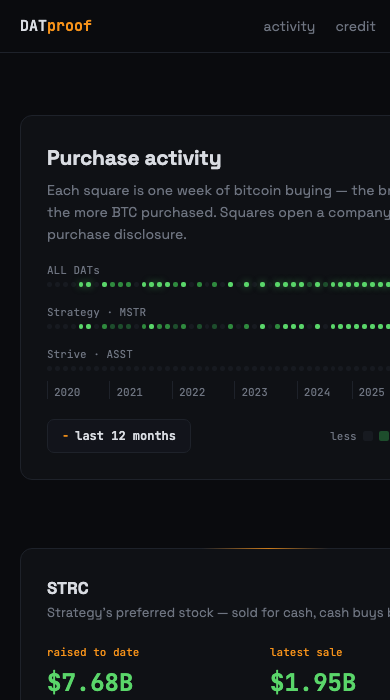
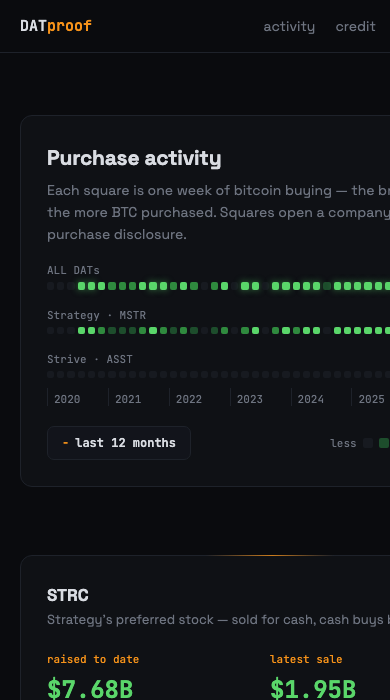
grid: fit both views at phone width

diff --git a/site/index.html b/site/index.html
@@ -140,7 +140,7 @@ const mstr=D.series.find(s=>s.t==='MSTR'),asst=D.series.find(s=>s.t==='ASST');
 let expanded=false;
 function drawGrid(){
  const width=document.getElementById('g-all').clientWidth||900;
- const maxCols=Math.max(40,Math.min(160,Math.floor(width/6.5)));
+ const maxCols=Math.max(8,Math.floor(width/10)); // ~10px per cell (incl. gap) keeps cells readable at any width
  const from=expanded?START:new Date(END.getTime()-52*7*864e5);
  const span=END.getTime()-from.getTime();
  const cols=Math.min(maxCols,52); // expanded reuses the 12-month cell count — bucket the wider span into it

diff --git a/site/template.html b/site/template.html
@@ -140,7 +140,7 @@ const mstr=D.series.find(s=>s.t==='MSTR'),asst=D.series.find(s=>s.t==='ASST');
 let expanded=false;
 function drawGrid(){
  const width=document.getElementById('g-all').clientWidth||900;
- const maxCols=Math.max(40,Math.min(160,Math.floor(width/6.5)));
+ const maxCols=Math.max(8,Math.floor(width/10)); // ~10px per cell (incl. gap) keeps cells readable at any width
  const from=expanded?START:new Date(END.getTime()-52*7*864e5);
  const span=END.getTime()-from.getTime();
  const cols=Math.min(maxCols,52); // expanded reuses the 12-month cell count — bucket the wider span into it
